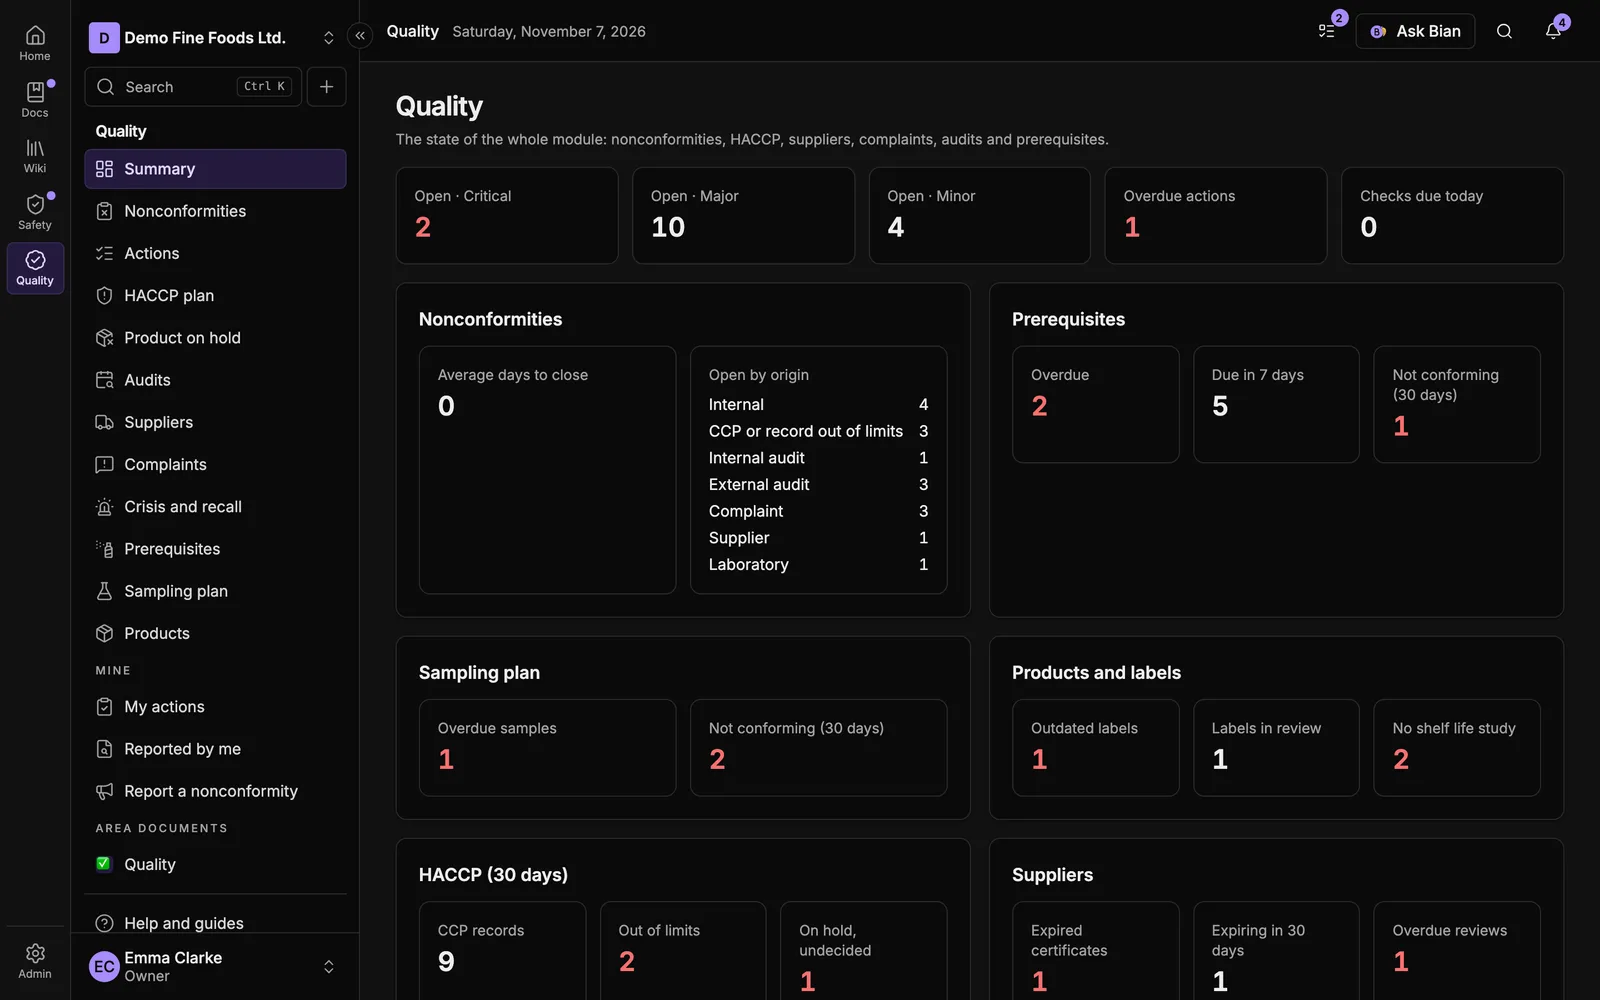
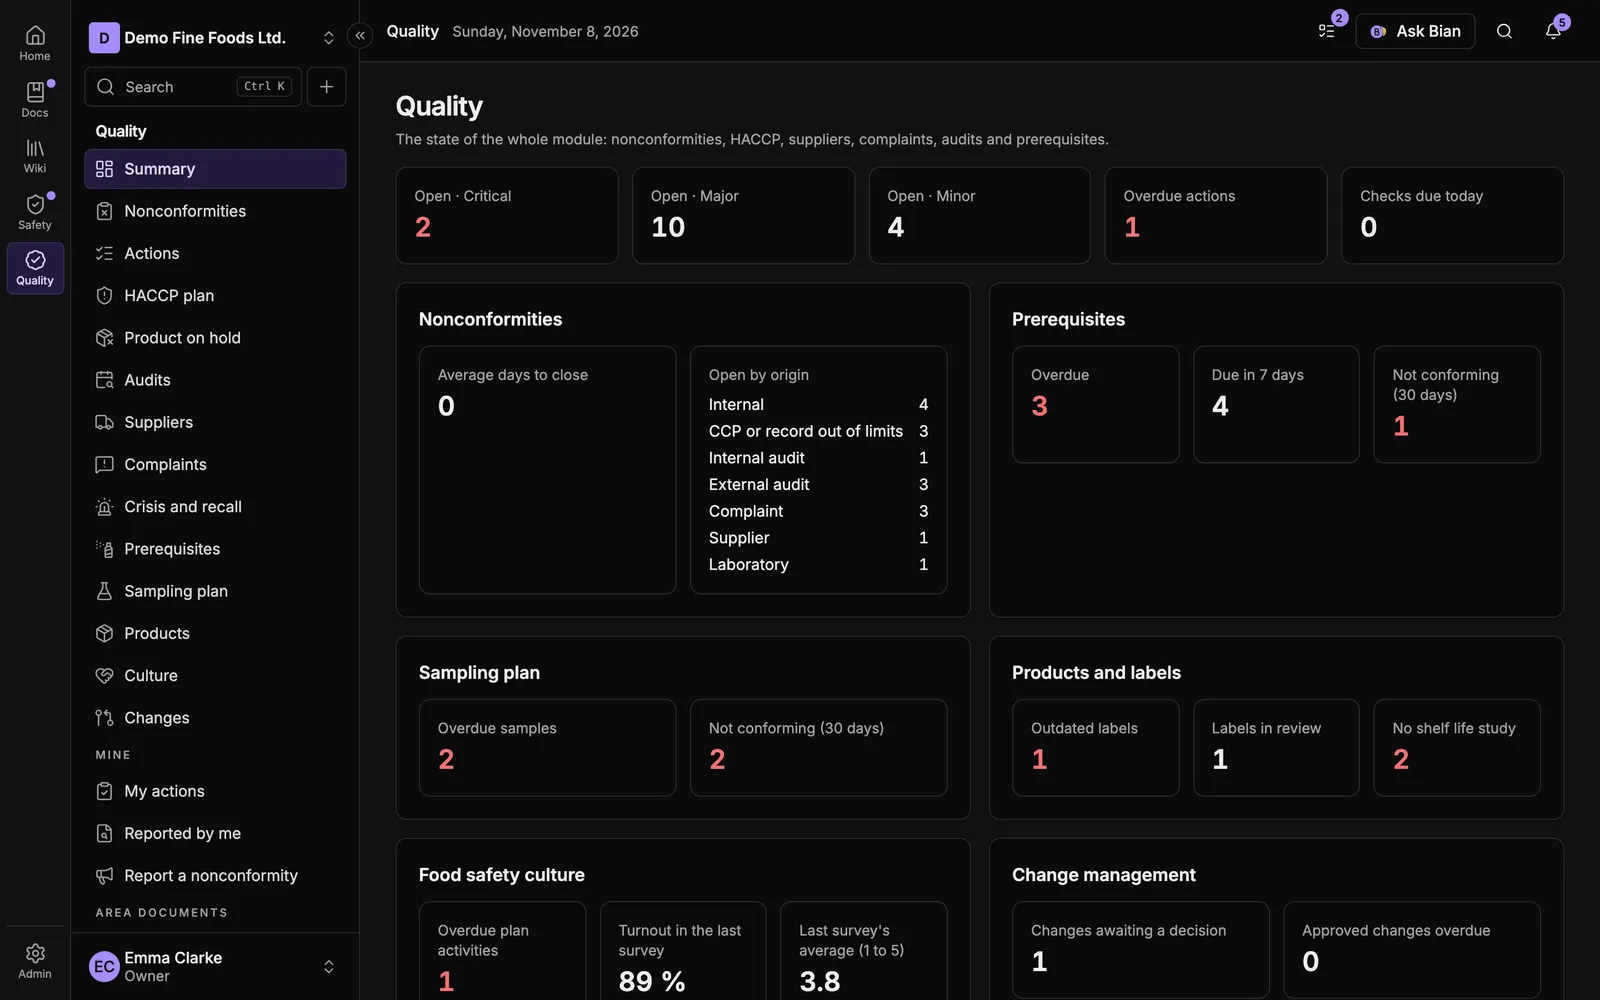
fix(quality): split culture and changes on the dashboard, round turnout, demo voters without guests

diff --git a/frontend/src/features/quality/summary-page.tsx b/frontend/src/features/quality/summary-page.tsx
@@ -190,7 +190,7 @@ export function QualitySummaryPage() {
             </div>
           </Section>
           <Section title={b.culture}>
-            <div className="grid gap-3 sm:grid-cols-2 lg:grid-cols-4">
+            <div className="grid gap-3 sm:grid-cols-3">
               <Stat
                 label={b.overdueActivities}
                 value={board.culture.overdueActivities}
@@ -200,23 +200,25 @@ export function QualitySummaryPage() {
               <Stat
                 label={b.lastSurvey}
                 value={
-                  board.culture.lastSurvey?.participation === null ||
-                  board.culture.lastSurvey === null
+                  board.culture.lastSurvey === null || board.culture.lastSurvey.participation === null
                     ? b.noSurvey
-                    : `${formatNumber(board.culture.lastSurvey.participation)} %`
+                    : `${String(Math.round(board.culture.lastSurvey.participation))} %`
                 }
                 to={`${base}/cultura`}
               />
               <Stat
                 label={b.lastSurveyAverage}
                 value={
-                  board.culture.lastSurvey?.average === null ||
-                  board.culture.lastSurvey === null
+                  board.culture.lastSurvey === null || board.culture.lastSurvey.average === null
                     ? b.noSurvey
-                    : formatNumber(board.culture.lastSurvey.average)
+                    : formatNumber(Math.round(board.culture.lastSurvey.average * 10) / 10)
                 }
                 to={`${base}/cultura`}
               />
+            </div>
+          </Section>
+          <Section title={b.changes}>
+            <div className="grid gap-3 sm:grid-cols-2">
               <Stat
                 label={b.proposedChanges}
                 value={board.changes.proposed}

diff --git a/web/scripts/demo-quality.ts b/web/scripts/demo-quality.ts
@@ -2037,9 +2037,10 @@ const CULTURE = {
 /** Mostly agreed, weaker on time and on hearing back after reporting (statements 7 and 9). */
 export function cultureScores(index: number): number[] {
   const spread = [4, 5, 4, 3, 5, 4, 2, 4, 5];
+  const bias = [0, 1, 0, -1, 0, 0, -1, 1, -1, 0];
   return Array.from({ length: 10 }, (_, question) => {
-    const score = spread[(index * 4 + question * 7) % spread.length] ?? 4;
-    return Math.max(1, question === 6 || question === 8 ? score - 1 : score);
+    const score = (spread[(index * 4 + question * 7) % spread.length] ?? 4) + (bias[question] ?? 0);
+    return Math.min(5, Math.max(1, score));
   });
 }
 
@@ -2091,13 +2092,18 @@ export async function demoCulture(
   });
   // The answers of the demo's other people, written straight to the tables (only the owner and one
   // member have a session here). The owner leaves it unanswered, so it shows in their «Mis pendientes».
-  const ownerId = idOf(0);
-  const voters = members.items.filter((item) => item.id !== ownerId).slice(0, 9);
   const { rows: ws } = await target.db.query<{ id: string }>(
     `SELECT id FROM "Workspace" WHERE slug = $1`,
     [target.slug],
   );
   const workspaceId = ws[0]?.id;
+  // Everyone who can answer (active, not a guest) but the owner, who signs in for the screenshots.
+  const { rows: voters } = await target.db.query<{ id: string }>(
+    `SELECT m.id FROM "Membership" m JOIN "Role" r ON r.id = m."roleId" JOIN "Workspace" w ON w.id = m."workspaceId"
+      WHERE w.slug = $1 AND m.status = 'ACTIVE' AND r.base NOT IN ('GUEST', 'OWNER')
+      ORDER BY m."createdAt" LIMIT 9`,
+    [target.slug],
+  );
   if (workspaceId !== undefined) {
     for (const [index, voter] of voters.entries()) {
       const scores = cultureScores(index);

diff --git a/frontend/src/features/quality/culture-page.tsx b/frontend/src/features/quality/culture-page.tsx
@@ -493,7 +493,7 @@ function ResultsDialog({ survey }: { survey: SurveySummary }) {
             <div className="rounded-xl border border-border p-3">
               <dt className="text-xs text-muted-foreground">{r.participation}</dt>
               <dd className="mt-1 text-xl font-semibold tabular-nums">
-                {data.participation === null ? "—" : `${formatNumber(data.participation)} %`}
+                {data.participation === null ? "—" : `${String(Math.round(data.participation))} %`}
               </dd>
               <dd className="text-xs text-muted-foreground">
                 {r.participationValue(data.answers, data.eligible)}
@@ -502,7 +502,7 @@ function ResultsDialog({ survey }: { survey: SurveySummary }) {
             <div className="rounded-xl border border-border p-3">
               <dt className="text-xs text-muted-foreground">{r.average}</dt>
               <dd className="mt-1 text-xl font-semibold tabular-nums">
-                {data.average === null ? "—" : formatNumber(data.average)}
+                {data.average === null ? "—" : formatNumber(Math.round(data.average * 10) / 10)}
               </dd>
             </div>
           </dl>
@@ -521,7 +521,7 @@ function ResultsDialog({ survey }: { survey: SurveySummary }) {
                         {String(index + 1)}. {question.text}
                       </span>
                       <span className="shrink-0 font-semibold tabular-nums">
-                        {formatNumber(question.average)}
+                        {formatNumber(Math.round(question.average * 10) / 10)}
                       </span>
                     </div>
                     <Distribution counts={question.distribution} />

diff --git a/frontend/src/i18n/es/quality.ts b/frontend/src/i18n/es/quality.ts
@@ -1188,7 +1188,8 @@ export const qualityTexts = {
     labelsOutdated: "Etiquetas desactualizadas",
     labelsInReview: "Etiquetas en revisión",
     withoutStudy: "Sin estudio de vida útil",
-    culture: "Cultura y cambios",
+    culture: "Cultura de seguridad alimentaria",
+    changes: "Gestión de cambios",
     overdueActivities: "Actividades del plan vencidas",
     lastSurvey: "Participación en la última encuesta",
     lastSurveyAverage: "Media de la última encuesta (1 a 5)",

diff --git a/frontend/src/i18n/en/quality.ts b/frontend/src/i18n/en/quality.ts
@@ -1182,7 +1182,8 @@ export const qualityTexts: typeof es = {
     labelsOutdated: "Outdated labels",
     labelsInReview: "Labels in review",
     withoutStudy: "No shelf life study",
-    culture: "Culture and changes",
+    culture: "Food safety culture",
+    changes: "Change management",
     overdueActivities: "Overdue plan activities",
     lastSurvey: "Turnout in the last survey",
     lastSurveyAverage: "Last survey's average (1 to 5)",
